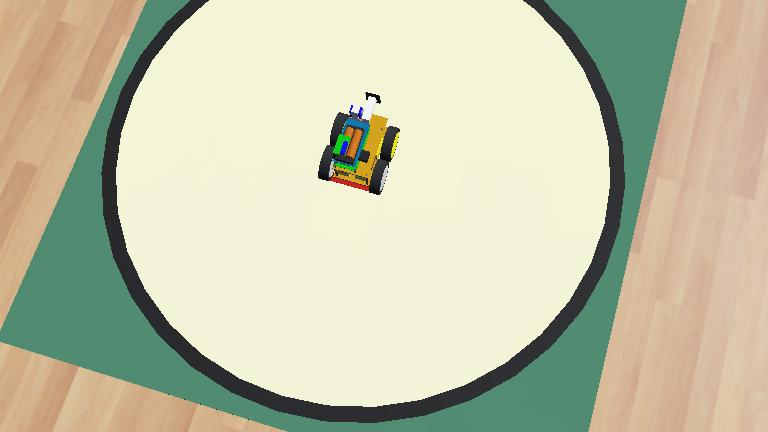
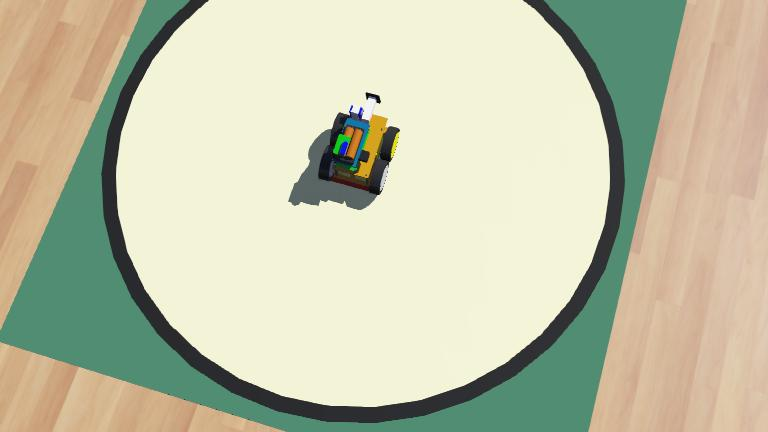
Changed code to follow readme
now only 1 timestep forward

Changed region(s): [[0.375, 0.2106, 0.5312, 0.4815], [0.6875, 0.7523, 0.7188, 0.7824], [0.3125, 0.8727, 0.3438, 0.9028]]

diff --git a/Webots/controllers/first_challenge_controller/first_challenge_controller.py b/Webots/controllers/first_challenge_controller/first_challenge_controller.py
@@ -44,7 +44,7 @@ if __name__ == "__main__":
     
     #Robot AI goes here **************
     move_forward()
-    robot.step(time_step * 10)
+    robot.step(time_step)
     
     #End of AI
     
